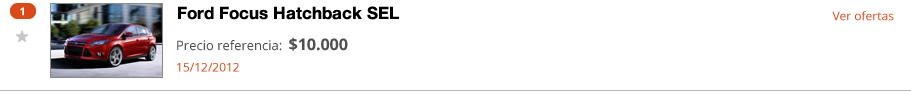
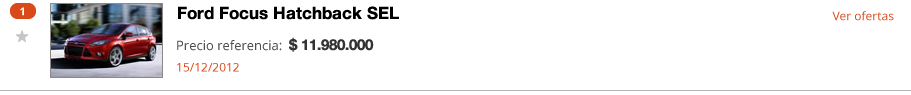
Actualización precios

Changed region(s): [[0.3074, 0.4, 0.4303, 0.5474]]

diff --git a/offer-reg-conf.html b/offer-reg-conf.html
@@ -81,7 +81,7 @@
           <div class="product-desc">
             <h4 class="heading">Ford Focus Hatchback SEL</h4>
             <p>Su potente y eficiente motorización de 1.6 litros 16V y 115 CV proporciona una excelente conducción, tanto en ciudad como en ruta, para que te muevas con total libertad.</p>
-            <p class="price">$20.600<sup><a href="#" rel="tooltip" data-placement="top" data-original-title="Precio de referencia">*</a></sup></p>
+            <p class="price">$ 11.980.000<sup><a href="#" rel="tooltip" data-placement="top" data-original-title="Precio de referencia">*</a></sup></p>
           </div>
         </section>
         <section class="span12">
@@ -105,7 +105,7 @@
                   <p><b>Promociones:</b> de regalo un iPad2 (compras hasta el 20/11/2012)</p>
                 </td>
                 <td class="starred-cell">
-                  <span class="price">$9.990.000</span>
+                  <span class="price">$ 13.980.000</span>
                   <b>Bono:</b>
                   <span>1.000.000</span>
                 </td>
@@ -119,7 +119,7 @@
                   <p><b>Promociones:</b> de regalo un iPad2 (compras hasta el 20/11/2012)</p>
                 </td>
                 <td class="starred-cell">
-                  <span class="price">$9.990.000</span>
+                  <span class="price">$ 11.980.000</span>
                   <b>Bono:</b>
                   <span>1.000.000</span>
                 </td>
@@ -133,7 +133,7 @@
                   <p><b>Promociones:</b> de regalo un iPad2 (compras hasta el 20/11/2012)</p>
                 </td>
                 <td class="starred-cell">
-                  <span class="price">$9.990.000</span>
+                  <span class="price">$ 12.980.000</span>
                   <b>Bono:</b>
                   <span>1.000.000</span>
                 </td>

diff --git a/offer-reg-conf-consolidated.html b/offer-reg-conf-consolidated.html
@@ -82,7 +82,7 @@
           <div class="product-desc">
             <h4 class="heading">Ford Focus Hatchback SEL</h4>
             <p>Su potente y eficiente motorización de 1.6 litros 16V y 115 CV proporciona una excelente conducción, tanto en ciudad como en ruta, para que te muevas con total libertad.</p>
-            <p class="price">$20.600<sup><a href="#" rel="tooltip" data-placement="top" data-original-title="Precio de referencia">*</a></sup></p>
+            <p class="price">$ 11.980.000<sup><a href="#" rel="tooltip" data-placement="top" data-original-title="Precio de referencia">*</a></sup></p>
           </div>
         </section>
         <section class="span12">
@@ -104,7 +104,7 @@
                   <p><b>Promociones:</b> de regalo un iPad2 (compras hasta el 20/11/2012)</p>
                 </td>
                 <td class="starred-cell">
-                  <span class="price">$9.990.000</span>
+                  <span class="price">$ 11.980.000</span>
                   <b>Bono:</b>
                   <span>1.000.000</span>
                 </td>

diff --git a/offer.html b/offer.html
@@ -74,7 +74,7 @@
           <div class="product-desc">
             <h4 class="heading">Ford Focus Hatchback SEL</h4>
             <p>Su potente y eficiente motorización de 1.6 litros 16V y 115 CV proporciona una excelente conducción, tanto en ciudad como en ruta, para que te muevas con total libertad. </p>
-            <p class="price">$20.600<sup><a href="#" rel="tooltip" data-placement="top" data-original-title="Precio de referencia">*</a></sup></p>
+            <p class="price">$ 11.980.000<sup><a href="#" rel="tooltip" data-placement="top" data-original-title="Precio de referencia">*</a></sup></p>
           </div>
         </section>
         <section class="span12" id="account-info">
